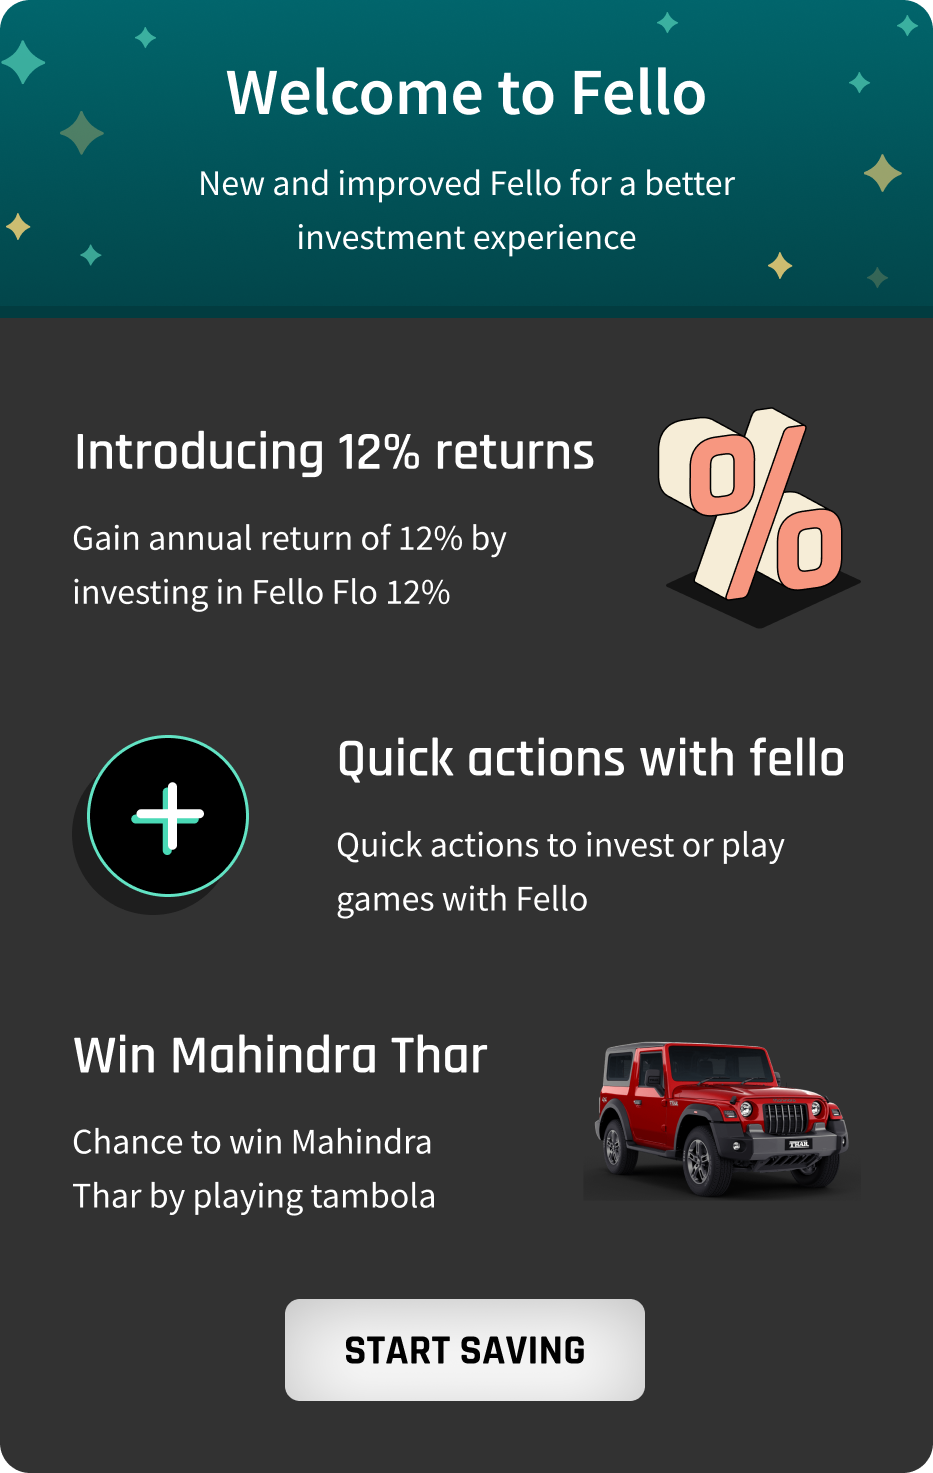
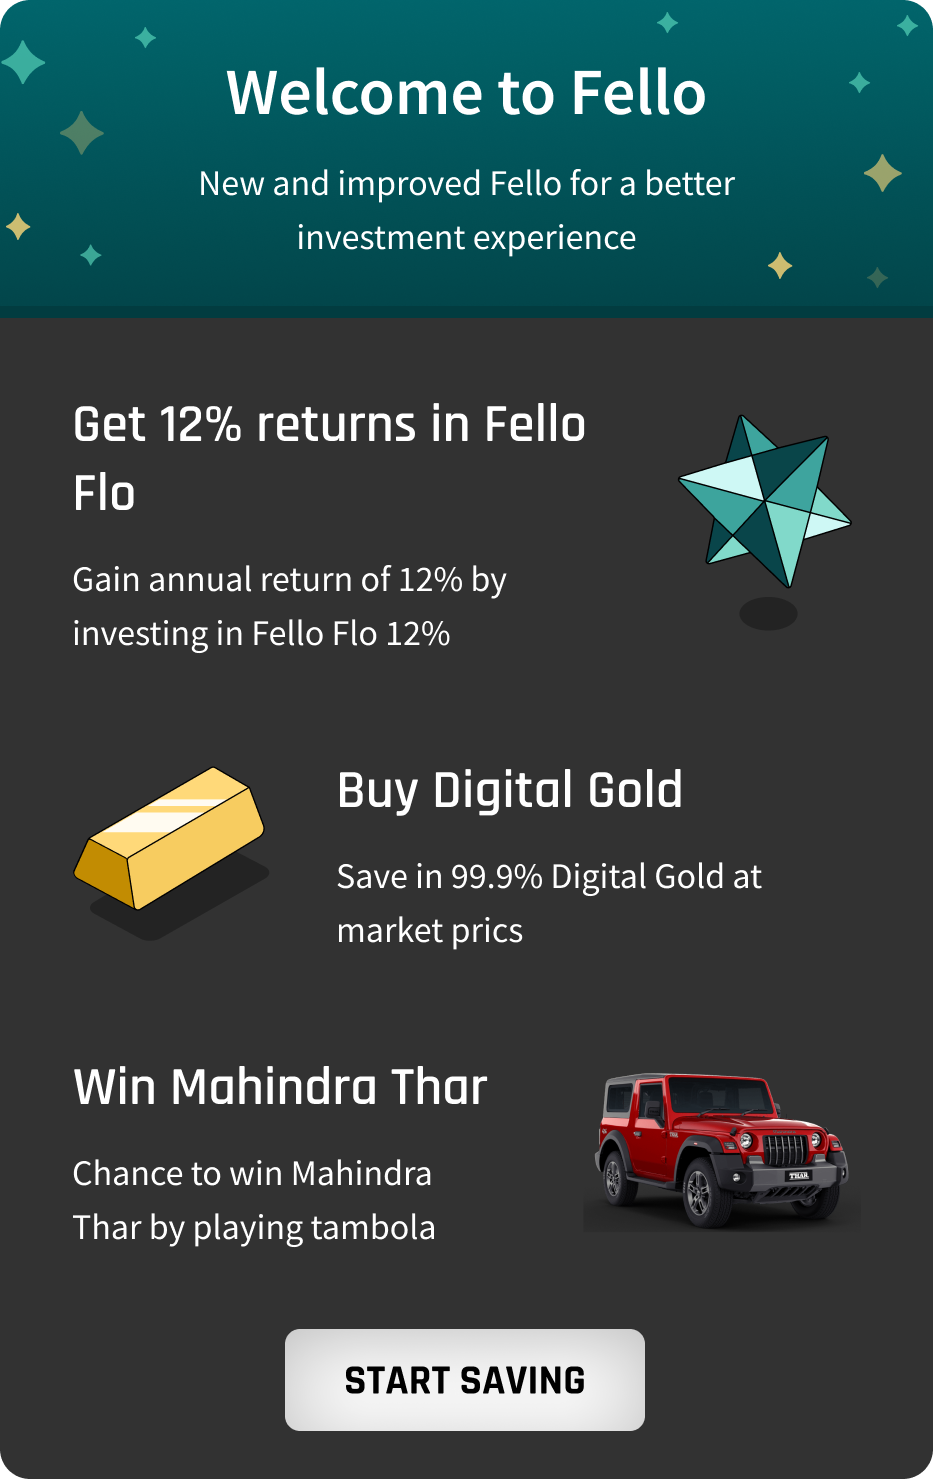
chore: minor chores

diff --git a/lib/feature/tambola/src/ui/widgets/ticket/ticket_section.dart b/lib/feature/tambola/src/ui/widgets/ticket/ticket_section.dart
@@ -4,10 +4,12 @@ import 'package:felloapp/feature/tambola/src/models/daily_pick_model.dart';
 import 'package:felloapp/feature/tambola/src/models/tambola_best_tickets_model.dart';
 import 'package:felloapp/feature/tambola/src/services/tambola_service.dart';
 import 'package:felloapp/feature/tambola/src/ui/tambola_all_tickets/tambola_all_tickets_view.dart';
+import 'package:felloapp/feature/tambola/src/ui/tambola_home_details/tambola_home_details_view.dart';
 import 'package:felloapp/navigator/app_state.dart';
 import 'package:felloapp/navigator/router/ui_pages.dart';
 import 'package:felloapp/ui/pages/support/faq/faq_page.dart';
 import 'package:felloapp/util/assets.dart';
+import 'package:felloapp/util/haptic.dart';
 import 'package:felloapp/util/locator.dart';
 import 'package:felloapp/util/styles/styles.dart';
 import 'package:flutter/material.dart';
@@ -48,7 +50,34 @@ class TicketSection extends StatelessWidget {
             bestTickets: data.item1,
             weeklyPicks: data.item2 ?? DailyPick.noPicks(),
           ),
-          const ViewAllTicketsBar()
+          ViewAllTicketsBar(
+            title: "View All Tickets",
+            onPressed: () {
+              Haptic.vibrate();
+              AppState.delegate!.appState.currentAction = PageAction(
+                state: PageState.addWidget,
+                page: AllTambolaTicketsPageConfig,
+                widget: AllTambolaTickets(
+                  weeklyPicks: locator<TambolaService>().weeklyPicks ??
+                      DailyPick.noPicks(),
+                ),
+              );
+            },
+          ),
+          ViewAllTicketsBar(
+            title: "View Prizes",
+            onPressed: () {
+              Haptic.vibrate();
+              AppState.delegate!.appState.currentAction = PageAction(
+                state: PageState.addWidget,
+                page: TambolaNewUser,
+                widget: const TambolaHomeDetailsView(
+                  isStandAloneScreen: true,
+                  showPrizeSection: true,
+                ),
+              );
+            },
+          )
         ],
       ),
     );
@@ -56,23 +85,18 @@ class TicketSection extends StatelessWidget {
 }
 
 class ViewAllTicketsBar extends StatelessWidget {
-  const ViewAllTicketsBar({super.key});
+  const ViewAllTicketsBar(
+      {super.key, required this.title, required this.onPressed});
+
+  final String title;
+  final VoidCallback onPressed;
 
   @override
   Widget build(BuildContext context) {
     return Padding(
       padding: EdgeInsets.symmetric(vertical: SizeConfig.padding10),
       child: GestureDetector(
-        onTap: () {
-          AppState.delegate!.appState.currentAction = PageAction(
-            state: PageState.addWidget,
-            page: AllTambolaTicketsPageConfig,
-            widget: AllTambolaTickets(
-              weeklyPicks:
-                  locator<TambolaService>().weeklyPicks ?? DailyPick.noPicks(),
-            ),
-          );
-        },
+        onTap: onPressed,
         child: Container(
           margin:
               EdgeInsets.symmetric(horizontal: SizeConfig.screenWidth! * 0.06),
@@ -88,7 +112,7 @@ class ViewAllTicketsBar extends StatelessWidget {
             mainAxisAlignment: MainAxisAlignment.spaceBetween,
             children: [
               Text(
-                "View All Tickets",
+                title,
                 style: TextStyles.rajdhaniSB.body1,
               ),
               Icon(

diff --git a/lib/ui/pages/hometabs/home/cards_home.dart b/lib/ui/pages/hometabs/home/cards_home.dart
@@ -337,8 +337,7 @@ class _CardsState extends State<Cards> with SingleTickerProviderStateMixin {
                                             infoTitle2: "Processing Balance",
                                             secondaryColor:
                                                 UiConstants.kRewardColor,
-                                            subtitle:
-                                                "Redeem after reaching ₹200",
+                                            subtitle: "Rewards earned on Fello",
                                             onButtonPressed: onRedeemPressed,
                                             onCardPressed: () {
                                               AppState.delegate!.parseRoute(
@@ -434,8 +433,7 @@ class _CardsState extends State<Cards> with SingleTickerProviderStateMixin {
                                             infoTitle2: "Gold Value",
                                             secondaryColor:
                                                 UiConstants.kGoldContainerColor,
-                                            subtitle:
-                                                "Quick Returns • Withdraw anytime",
+                                            subtitle: "100% Safe • 99.99% Pure",
                                             onButtonPressed: () => BaseUtil()
                                                 .openRechargeModalSheet(
                                                     investmentType:
@@ -531,8 +529,7 @@ class _CardsState extends State<Cards> with SingleTickerProviderStateMixin {
                                             infoTitle2: "Invested",
                                             secondaryColor:
                                                 UiConstants.darkPrimaryColor3,
-                                            subtitle:
-                                                "Quick Returns • Withdraw anytime",
+                                            subtitle: "P2P Asset • 12% Returns",
                                             onButtonPressed: () => BaseUtil()
                                                 .openRechargeModalSheet(
                                                     investmentType:

diff --git a/lib/feature/tambola/src/ui/tambola_home_tickets/tambola_home_tickets_view.dart b/lib/feature/tambola/src/ui/tambola_home_tickets/tambola_home_tickets_view.dart
@@ -1,3 +1,5 @@
+import 'package:felloapp/core/enums/page_state_enum.dart';
+import 'package:felloapp/feature/tambola/src/ui/tambola_home_details/tambola_home_details_view.dart';
 import 'package:felloapp/feature/tambola/src/ui/tambola_home_tickets/tambola_home_tickets_vm.dart';
 import 'package:felloapp/feature/tambola/src/ui/widgets/buy_ticket_card.dart';
 import 'package:felloapp/feature/tambola/src/ui/widgets/how_it_works_section.dart';
@@ -6,6 +8,8 @@ import 'package:felloapp/feature/tambola/src/ui/widgets/past_week_winners_sectio
 import 'package:felloapp/feature/tambola/src/ui/widgets/results_card.dart';
 import 'package:felloapp/feature/tambola/src/ui/widgets/tambola_picks/today_weekly_pick_card.dart';
 import 'package:felloapp/feature/tambola/src/ui/widgets/ticket/ticket_section.dart';
+import 'package:felloapp/navigator/app_state.dart';
+import 'package:felloapp/navigator/router/ui_pages.dart';
 import 'package:felloapp/ui/architecture/base_view.dart';
 import 'package:felloapp/util/assets.dart';
 import 'package:felloapp/util/styles/styles.dart';
@@ -102,7 +106,18 @@ class TambolaRewardLottieStrip extends StatelessWidget {
         borderRadius: BorderRadius.circular(SizeConfig.roundness12),
         child: (DateTime.now().weekday == 1 && DateTime.now().hour < 16)
             ? const SizedBox()
-            : Lottie.asset(Assets.tambolaTopBannerTharLottie),
+            : InkWell(
+                onTap: () {
+                  AppState.delegate!.appState.currentAction = PageAction(
+                    state: PageState.addWidget,
+                    page: TambolaNewUser,
+                    widget: const TambolaHomeDetailsView(
+                      isStandAloneScreen: true,
+                      showPrizeSection: true,
+                    ),
+                  );
+                },
+                child: Lottie.asset(Assets.tambolaTopBannerTharLottie)),
       ),
     );
   }

diff --git a/lib/ui/pages/static/save_assets_footer.dart b/lib/ui/pages/static/save_assets_footer.dart
@@ -8,8 +8,9 @@ import 'package:flutter/material.dart';
 import 'package:flutter_svg/svg.dart';
 
 class SaveAssetsFooter extends StatelessWidget {
-  const SaveAssetsFooter({Key? key}) : super(key: key);
+  const SaveAssetsFooter({Key? key, this.isFlo = false}) : super(key: key);
 
+  final bool isFlo;
   @override
   Widget build(BuildContext context) {
     S locale = locator<S>();
@@ -24,9 +25,9 @@ class SaveAssetsFooter extends StatelessWidget {
         mainAxisAlignment: MainAxisAlignment.spaceBetween,
         children: [
           SaveInfoSection(
-            title: locale.govtAcc,
-            imageAsset: Assets.augmontLogo,
-            imageHeight: SizeConfig.screenWidth! * 0.07,
+            title: isFlo ? "Secured by" : locale.govtAcc,
+            imageAsset: isFlo ? Assets.sebi : Assets.augmontLogo,
+            imageHeight: SizeConfig.screenWidth! * (isFlo ? 0.05 : 0.07),
             imageWidth: SizeConfig.screenWidth! * 0.16,
           ),
           Container(
@@ -78,6 +79,7 @@ class SaveInfoSection extends StatelessWidget {
   @override
   Widget build(BuildContext context) {
     return Container(
+      height: SizeConfig.screenWidth! * 0.12,
       width: SizeConfig.screenWidth! * 0.27,
       alignment: Alignment.center,
       child: Column(
@@ -87,9 +89,7 @@ class SaveInfoSection extends StatelessWidget {
             title ?? '',
             style: TextStyles.sourceSans.body4.colour(UiConstants.kTextColor2),
           ),
-          SizedBox(
-            height: SizeConfig.padding6,
-          ),
+          Spacer(),
           SizedBox(
             height: imageHeight ?? 0,
             width: imageWidth ?? 0,

diff --git a/lib/ui/pages/finance/lendbox/detail_page/flo_premium_details_view.dart b/lib/ui/pages/finance/lendbox/detail_page/flo_premium_details_view.dart
@@ -175,7 +175,7 @@ class _FloPremiumDetailsViewState extends State<FloPremiumDetailsView>
                                         .colour(Colors.white),
                                   ),
                                 ),
-                                const SaveAssetsFooter(),
+                                const SaveAssetsFooter(isFlo: true),
                                 SizedBox(
                                     height: SizeConfig.pageHorizontalMargins),
                                 CircularSlider(
@@ -358,7 +358,7 @@ class _FloPremiumDetailsViewState extends State<FloPremiumDetailsView>
                                     child: Text(
                                       DynamicUiUtils.ctaText.LENDBOXP2P ?? "",
                                       style: TextStyles.sourceSans.body4.colour(
-                                        UiConstants.kTextColor2,
+                                        Colors.white,
                                       ),
                                     ),
                                   ),

diff --git a/lib/ui/pages/hometabs/save/save_components/walkthrough_video_section.dart b/lib/ui/pages/hometabs/save/save_components/walkthrough_video_section.dart
@@ -1,4 +1,6 @@
 import 'package:felloapp/base_util.dart';
+import 'package:felloapp/core/enums/app_config_keys.dart';
+import 'package:felloapp/core/model/app_config_model.dart';
 import 'package:felloapp/ui/pages/static/youtube_player_view.dart';
 import 'package:felloapp/util/styles/styles.dart';
 import 'package:flutter/material.dart';
@@ -10,11 +12,12 @@ class WalthroughVideosSection extends StatelessWidget {
 
   @override
   Widget build(BuildContext context) {
-    final List videos = [
-      "https://www.youtube.com/watch?v=mzaIjBjUM1Y",
-      "https://www.youtube.com/watch?v=CDokUdux0rc",
-      "https://www.youtube.com/watch?v=zFhYJRqz_xk"
-    ];
+    final List videos = AppConfig.getValue(AppConfigKey.youtube_videos) ??
+        [
+          "https://www.youtube.com/watch?v=mzaIjBjUM1Y",
+          "https://www.youtube.com/watch?v=CDokUdux0rc",
+          "https://www.youtube.com/watch?v=zFhYJRqz_xk"
+        ];
     return SizedBox(
       height: SizeConfig.screenWidth! * 0.36,
       width: SizeConfig.screenWidth,

diff --git a/lib/ui/pages/hometabs/save/save_components/asset_section.dart b/lib/ui/pages/hometabs/save/save_components/asset_section.dart
@@ -132,7 +132,7 @@ class MiniAssetsGroupSection extends StatelessWidget {
             color: UiConstants.kSaveStableFelloCardBg,
             asset: Assets.floAsset,
             title: "Fello Flo",
-            subtitle: "Know Fello Flo",
+            subtitle: "upto 12% returns",
             actionUri: "floDetails",
           ),
           SizedBox(width: SizeConfig.padding16),
@@ -140,7 +140,7 @@ class MiniAssetsGroupSection extends StatelessWidget {
             color: UiConstants.kSaveDigitalGoldCardBg,
             asset: Assets.goldAsset,
             title: "Digital Gold",
-            subtitle: "Know Digital Gold",
+            subtitle: "100% Safe",
             actionUri: "goldDetails",
           ),
         ],

diff --git a/lib/ui/pages/finance/lendbox/detail_page/flo_premium_details_vm.dart b/lib/ui/pages/finance/lendbox/detail_page/flo_premium_details_vm.dart
@@ -41,9 +41,9 @@ class FloPremiumDetailsViewModel extends BaseViewModel {
   }
 
   final UserService userService = locator<UserService>();
-  final String flo10Highlights = "P2P Asset  • 10% Returns •3 months maturity";
+  final String flo10Highlights = "P2P Asset  • 10% Returns • 3 months maturity";
 
-  final String flo12Highlights = "P2P Asset  • 12% Returns •6 months maturity";
+  final String flo12Highlights = "P2P Asset  • 12% Returns • 6 months maturity";
 
   String flo10Description =
       "Fello Flo Premium 10% is a P2P Asset. The asset works in the way of a Fixed deposit but has a lock-in of just 3 months!";

diff --git a/lib/ui/service_elements/winners_prizes/prize_claim_card.dart b/lib/ui/service_elements/winners_prizes/prize_claim_card.dart
@@ -55,7 +55,7 @@ class PrizeClaimCard extends StatelessWidget {
                                 mainAxisAlignment: MainAxisAlignment.center,
                                 children: [
                                   Text(
-                                    "Total Winnings",
+                                    "Fello Rewards",
                                     style:
                                         TextStyles.body1.colour(Colors.white),
                                   ),

diff --git a/lib/ui/pages/hometabs/win/win_components/current_winnings_info.dart b/lib/ui/pages/hometabs/win/win_components/current_winnings_info.dart
@@ -45,7 +45,7 @@ class CurrentWinningsInfo extends StatelessWidget {
                   crossAxisAlignment: CrossAxisAlignment.start,
                   children: [
                     Text(
-                      locale.currentWinings,
+                      "Fello Rewards",
                       style: TextStyles.rajdhaniSB
                           .copyWith(fontSize: SizeConfig.body0),
                       key: ValueKey(Constants.CURRENT_WINNINGS),

diff --git a/lib/util/assets.dart b/lib/util/assets.dart
@@ -121,7 +121,7 @@ class Assets {
   static const String goldAsset = "assets/svg/digital_gold.svg";
   static const String rbi = "assets/svg/rbi.svg";
   static const String icici = "assets/svg/icici.svg";
-  static const String sebi = "assets/svg/sebi.svg";
+  static const String sebi = "assets/vectors/icons/sebi_new.svg";
 
   static const String arrowIcon = "assets/svg/raising_arrow.svg";
   static const String timer = "assets/svg/timer.svg";

diff --git a/lib/feature/tambola/src/ui/tambola_home_details/tambola_home_details_view.dart b/lib/feature/tambola/src/ui/tambola_home_details/tambola_home_details_view.dart
@@ -74,7 +74,7 @@ class _TambolaHomeDetailsViewState extends State<TambolaHomeDetailsView> {
 
     return BaseView<TambolaHomeDetailsViewModel>(
       onModelReady: (model) => model.init(),
-      onModelDispose: (model) => model.dispose(),
+      onModelDispose: (model) => model.dump(),
       builder: (context, model, child) {
         return Scaffold(
           backgroundColor: const Color(0XFF141414),
